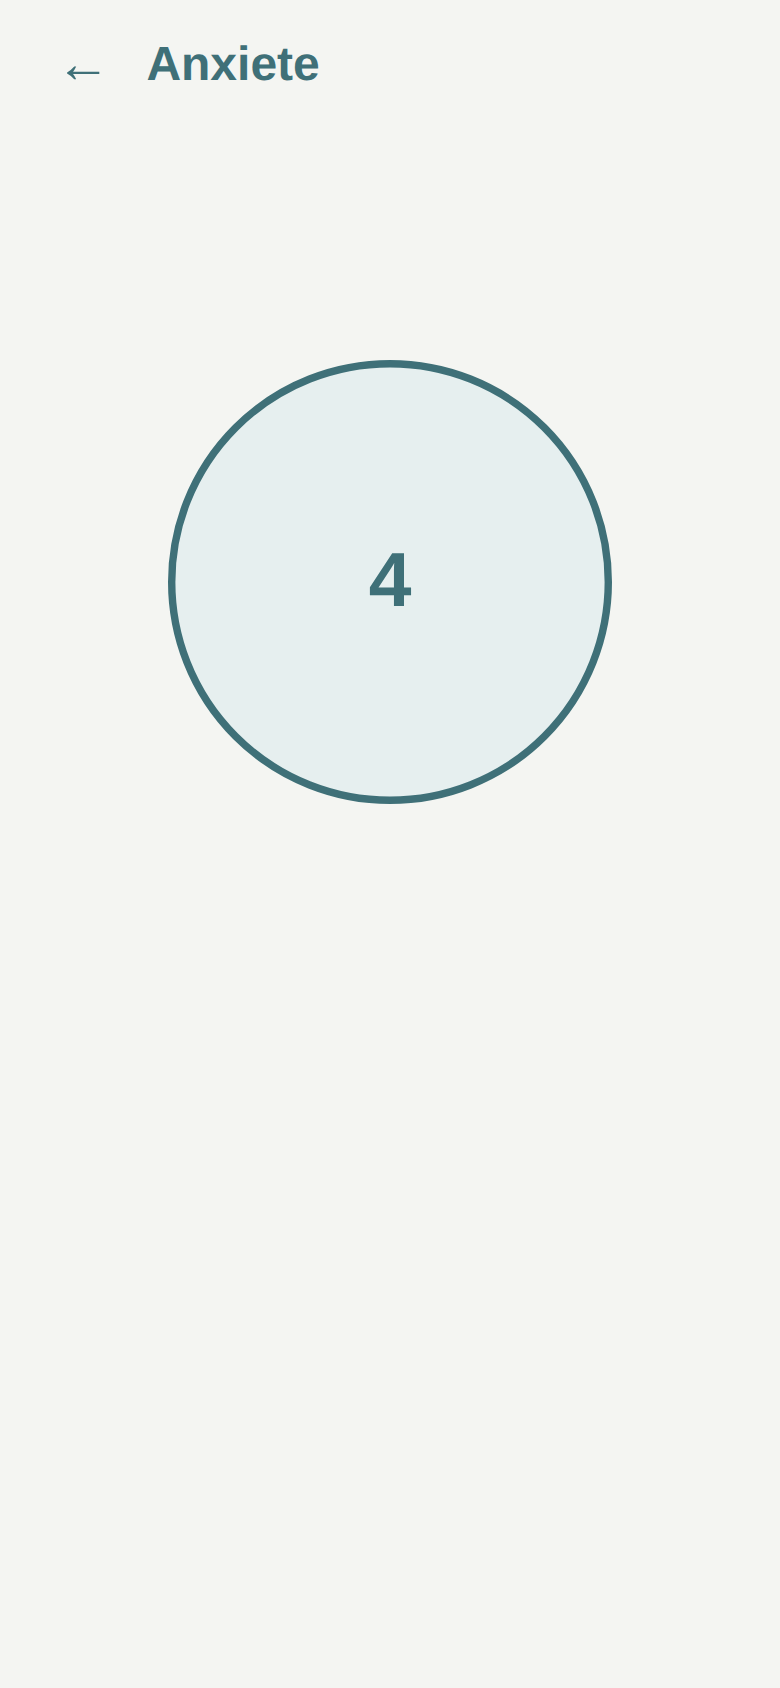
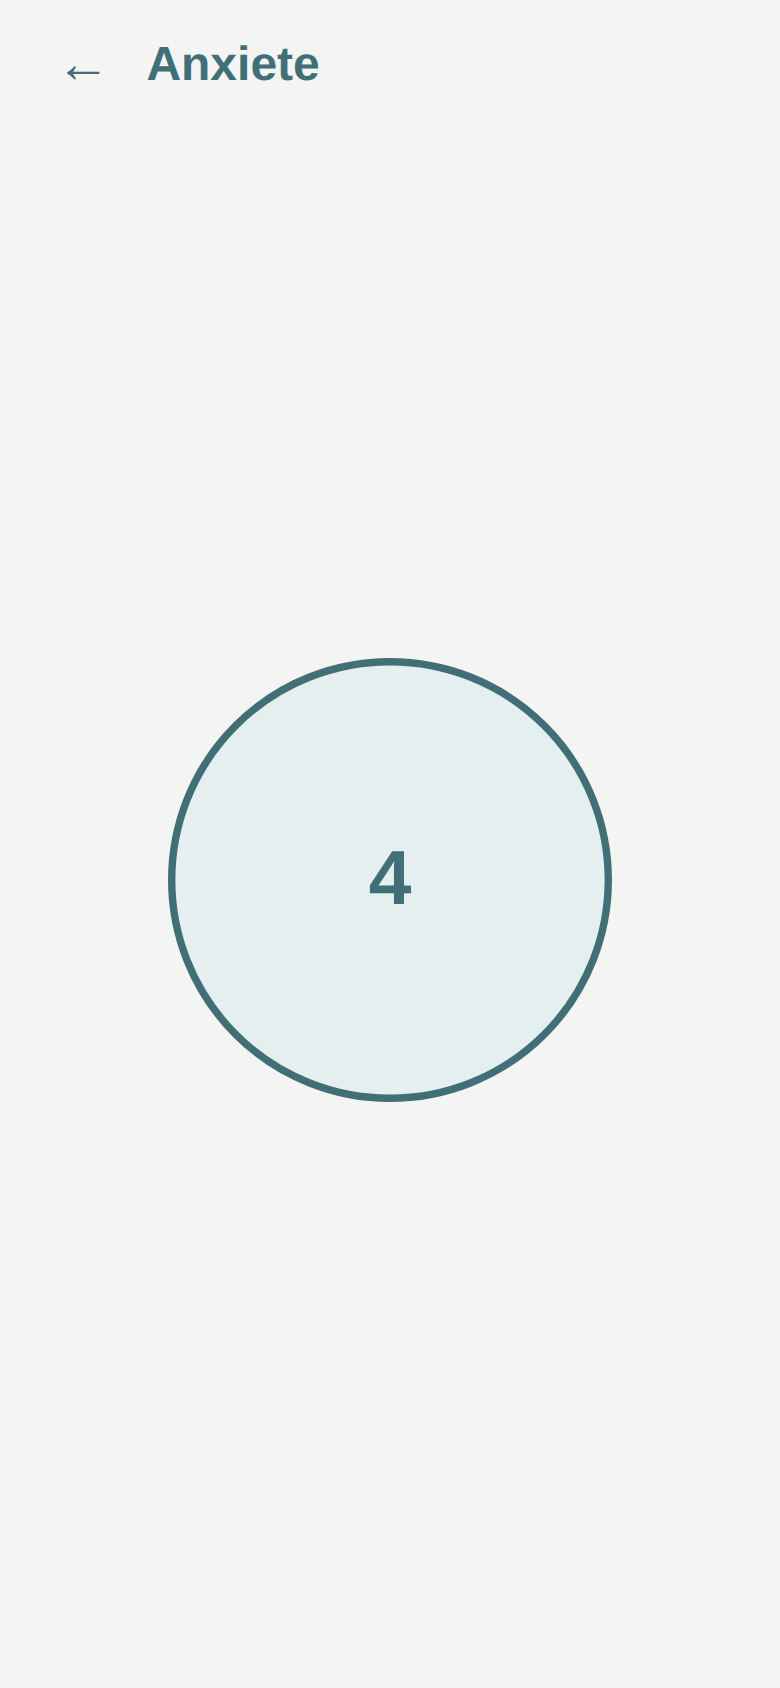
Centrer le contenu de chaque ecran (H+V)
- ecran anxiete : les 3 etats (respiration, ancrage, fin) empiles en overlay centre
- revelations (phrases, alertes, messages) retirees du flux tant que masquees, fondu via allow-discrete

diff --git a/www/index.html b/www/index.html
@@ -51,30 +51,28 @@
   .back { border: none; background: transparent; color: var(--accent); font-size: 1.7rem; line-height: 1;
     padding: 4px 8px 6px; cursor: pointer; font-family: inherit; }
   .mode h1 { margin: 0; font-size: 1.5rem; font-weight: 700; color: var(--accent); }
-  .stage { flex: 1; display: flex; flex-direction: column; align-items: center; justify-content: center;
-    text-align: center; gap: 22px; overflow-y: auto; }
+  .stage { position: relative; flex: 1; display: flex; flex-direction: column; align-items: center;
+    justify-content: center; text-align: center; gap: 22px; overflow-y: auto; }
 
   .mode.anx { --accent: var(--anx); --tint: var(--anx-tint); }
   .mode.env { --accent: var(--env); --tint: var(--env-tint); }
   .mode.rep { --accent: var(--rep); --tint: var(--rep-tint); }
 
-  /* Respiration */
-  #anx-breath { display: flex; flex-direction: column; align-items: center; gap: 20px;
-    opacity: 0; transition: opacity .4s ease; }
-  #anx-breath.show { opacity: 1; }
+  /* Ecran anxiete : 3 etats empiles et centres, un seul visible a la fois */
+  #anx-breath, #anx-step, #anx-done { position: absolute; inset: 0;
+    display: flex; flex-direction: column; align-items: center; justify-content: center;
+    opacity: 0; pointer-events: none; transition: opacity .4s ease; }
+  #anx-breath.show, #anx-step.show, #anx-done.show { opacity: 1; pointer-events: auto; }
+  #anx-breath { gap: 20px; }
   .circle-wrap { position: relative; width: 240px; height: 240px; display: flex; align-items: center; justify-content: center; }
   #anx-circle { width: 120px; height: 120px; border-radius: 50%; background: var(--anx-tint);
     border: 2px solid var(--anx); transition-property: transform; transition-timing-function: ease-in-out; }
   #anx-circle.big { transform: scale(1.85); }
   #anx-count { position: absolute; font-size: 2.4rem; font-weight: 600; color: var(--anx);
     font-variant-numeric: tabular-nums; }
-
-  /* Ancrage */
-  #anx-step { opacity: 0; transition: opacity .4s ease; font-size: 1.7rem; font-weight: 600; padding: 0 10px; }
-  #anx-step.show { opacity: 1; }
+  #anx-step { font-size: 1.7rem; font-weight: 600; padding: 0 10px; }
   #anx-step-timer { display: block; margin-top: 16px; font-size: 1rem; color: var(--text-2); font-weight: 400; }
-  #anx-done { opacity: 0; transition: opacity .4s ease; font-size: 1.5rem; font-weight: 600; color: var(--rep); }
-  #anx-done.show { opacity: 1; }
+  #anx-done { font-size: 1.5rem; font-weight: 600; color: var(--rep); padding: 0 10px; }
   #anx-done button { display: block; margin: 22px auto 0; }
 
   /* Timers */
@@ -84,18 +82,21 @@
     font-weight: 600; font-family: inherit; padding: 14px 30px; cursor: pointer; }
   .btn-ghost { background: transparent; color: var(--accent); border: 1px solid var(--accent); }
 
-  #sucre-phrases { list-style: none; margin: 8px 0 0; padding: 0; display: flex; flex-direction: column; gap: 14px; }
-  #sucre-phrases li { opacity: 0; transition: opacity .5s ease; font-size: 1.2rem; }
-  #sucre-phrases li.show { opacity: 1; }
-  #sucre-end, #repas-end { opacity: 0; transition: opacity .4s ease; font-size: 1.25rem; font-weight: 600; padding: 0 6px; }
-  #sucre-end.show, #repas-end.show { opacity: 1; }
+  /* Revelations : retirees du flux tant que masquees (garde le contenu centre) */
+  .reveal, #sucre-phrases li { opacity: 0; transition: opacity .4s ease, display .4s allow-discrete; }
+  .reveal:not(.show), #sucre-phrases li:not(.show) { display: none; }
+  .reveal.show, #sucre-phrases li.show { opacity: 1; display: block; }
+  @starting-style { .reveal.show, #sucre-phrases li.show { opacity: 0; } }
 
-  #repas-alert { opacity: 0; transition: opacity .3s ease; background: var(--rep-tint); color: var(--rep);
+  #sucre-phrases { list-style: none; margin: 0; padding: 0; display: flex; flex-direction: column; gap: 14px; }
+  #sucre-phrases li { font-size: 1.2rem; }
+  #sucre-end, #repas-end { font-size: 1.25rem; font-weight: 600; padding: 0 6px; }
+
+  #repas-alert { background: var(--rep-tint); color: var(--rep);
     border-radius: 14px; padding: 16px 18px; font-weight: 600; font-size: 1.15rem; }
-  #repas-alert.show { opacity: 1; animation: pulse 1.4s ease-in-out infinite; }
+  #repas-alert.show { animation: pulse 1.4s ease-in-out infinite; }
   @keyframes pulse { 50% { transform: scale(1.04); } }
-  #repas-wait { opacity: 0; transition: opacity .4s ease; display: flex; flex-direction: column; align-items: center; gap: 12px; }
-  #repas-wait.show { opacity: 1; }
+  #repas-wait.show { display: flex; flex-direction: column; align-items: center; gap: 12px; }
   #repas-wait .timer-big { color: var(--red); }
   #repas-wait .hint { color: var(--red); font-weight: 600; }
 
@@ -137,7 +138,7 @@
         <li>Marche un peu.</li>
         <li>Fais une activite manuelle.</li>
       </ul>
-      <p id="sucre-end">Toujours envie ? Prends un fruit, assis, en le savourant, sans culpabiliser.</p>
+      <p id="sucre-end" class="reveal">Toujours envie ? Prends un fruit, assis, en le savourant, sans culpabiliser.</p>
     </div>
   </section>
 
@@ -145,13 +146,13 @@
     <div class="bar"><button class="back" data-go="accueil" aria-label="Retour">&larr;</button><h1>Repas</h1></div>
     <div class="stage">
       <div class="timer-box"><div class="timer-big" id="repas-timer">20:00</div></div>
-      <div id="repas-alert">Pose les couverts. Encore faim, ou habitude ?</div>
+      <div id="repas-alert" class="reveal">Pose les couverts. Encore faim, ou habitude ?</div>
       <button class="btn btn-ghost" id="repas-again" hidden>Encore faim ?</button>
-      <div id="repas-wait">
+      <div id="repas-wait" class="reveal">
         <div class="timer-big" id="repas-wait-timer">10:00</div>
         <p class="hint">Patiente. La satiete rattrape souvent toute seule.</p>
       </div>
-      <p id="repas-end">Prends un fruit, assis, en le savourant, sans culpabiliser.</p>
+      <p id="repas-end" class="reveal">Prends un fruit, assis, en le savourant, sans culpabiliser.</p>
     </div>
   </section>
 
